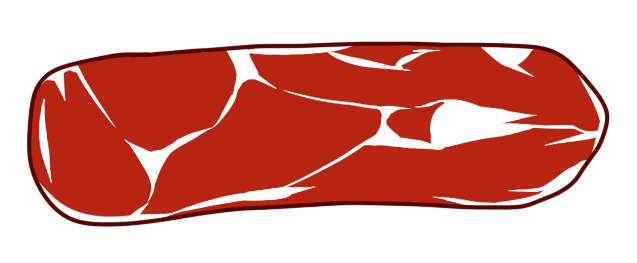
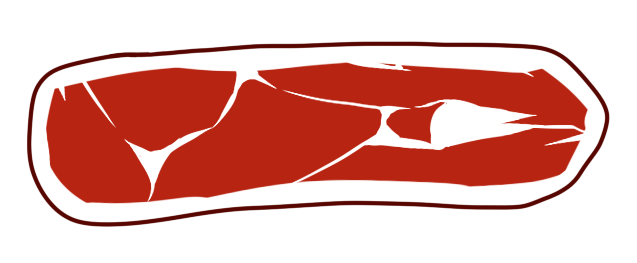
오리 고기 이미지 변경, 콜라이더 크기 수정

Changed region(s): [[0.0298, 0.1521, 0.9545, 0.8517]]

diff --git a/Assets/scripts/meatCutter/ManualKnifeMoving.cs b/Assets/scripts/meatCutter/ManualKnifeMoving.cs
@@ -1,0 +1,18 @@
+using System.Collections;
+using System.Collections.Generic;
+using UnityEngine;
+
+public class ManualKnifeMoving : MonoBehaviour
+{
+	private void Update()
+	{
+		if(Input.GetKey(KeyCode.C))
+		{
+			transform.position = new Vector3(transform.position.x + 0.1f, transform.position.y, transform.position.z);
+		}
+		else if(Input.GetKey(KeyCode.Z))
+		{
+			transform.position = new Vector3(transform.position.x - 0.1f, transform.position.y, transform.position.z);
+		}
+	}
+}
